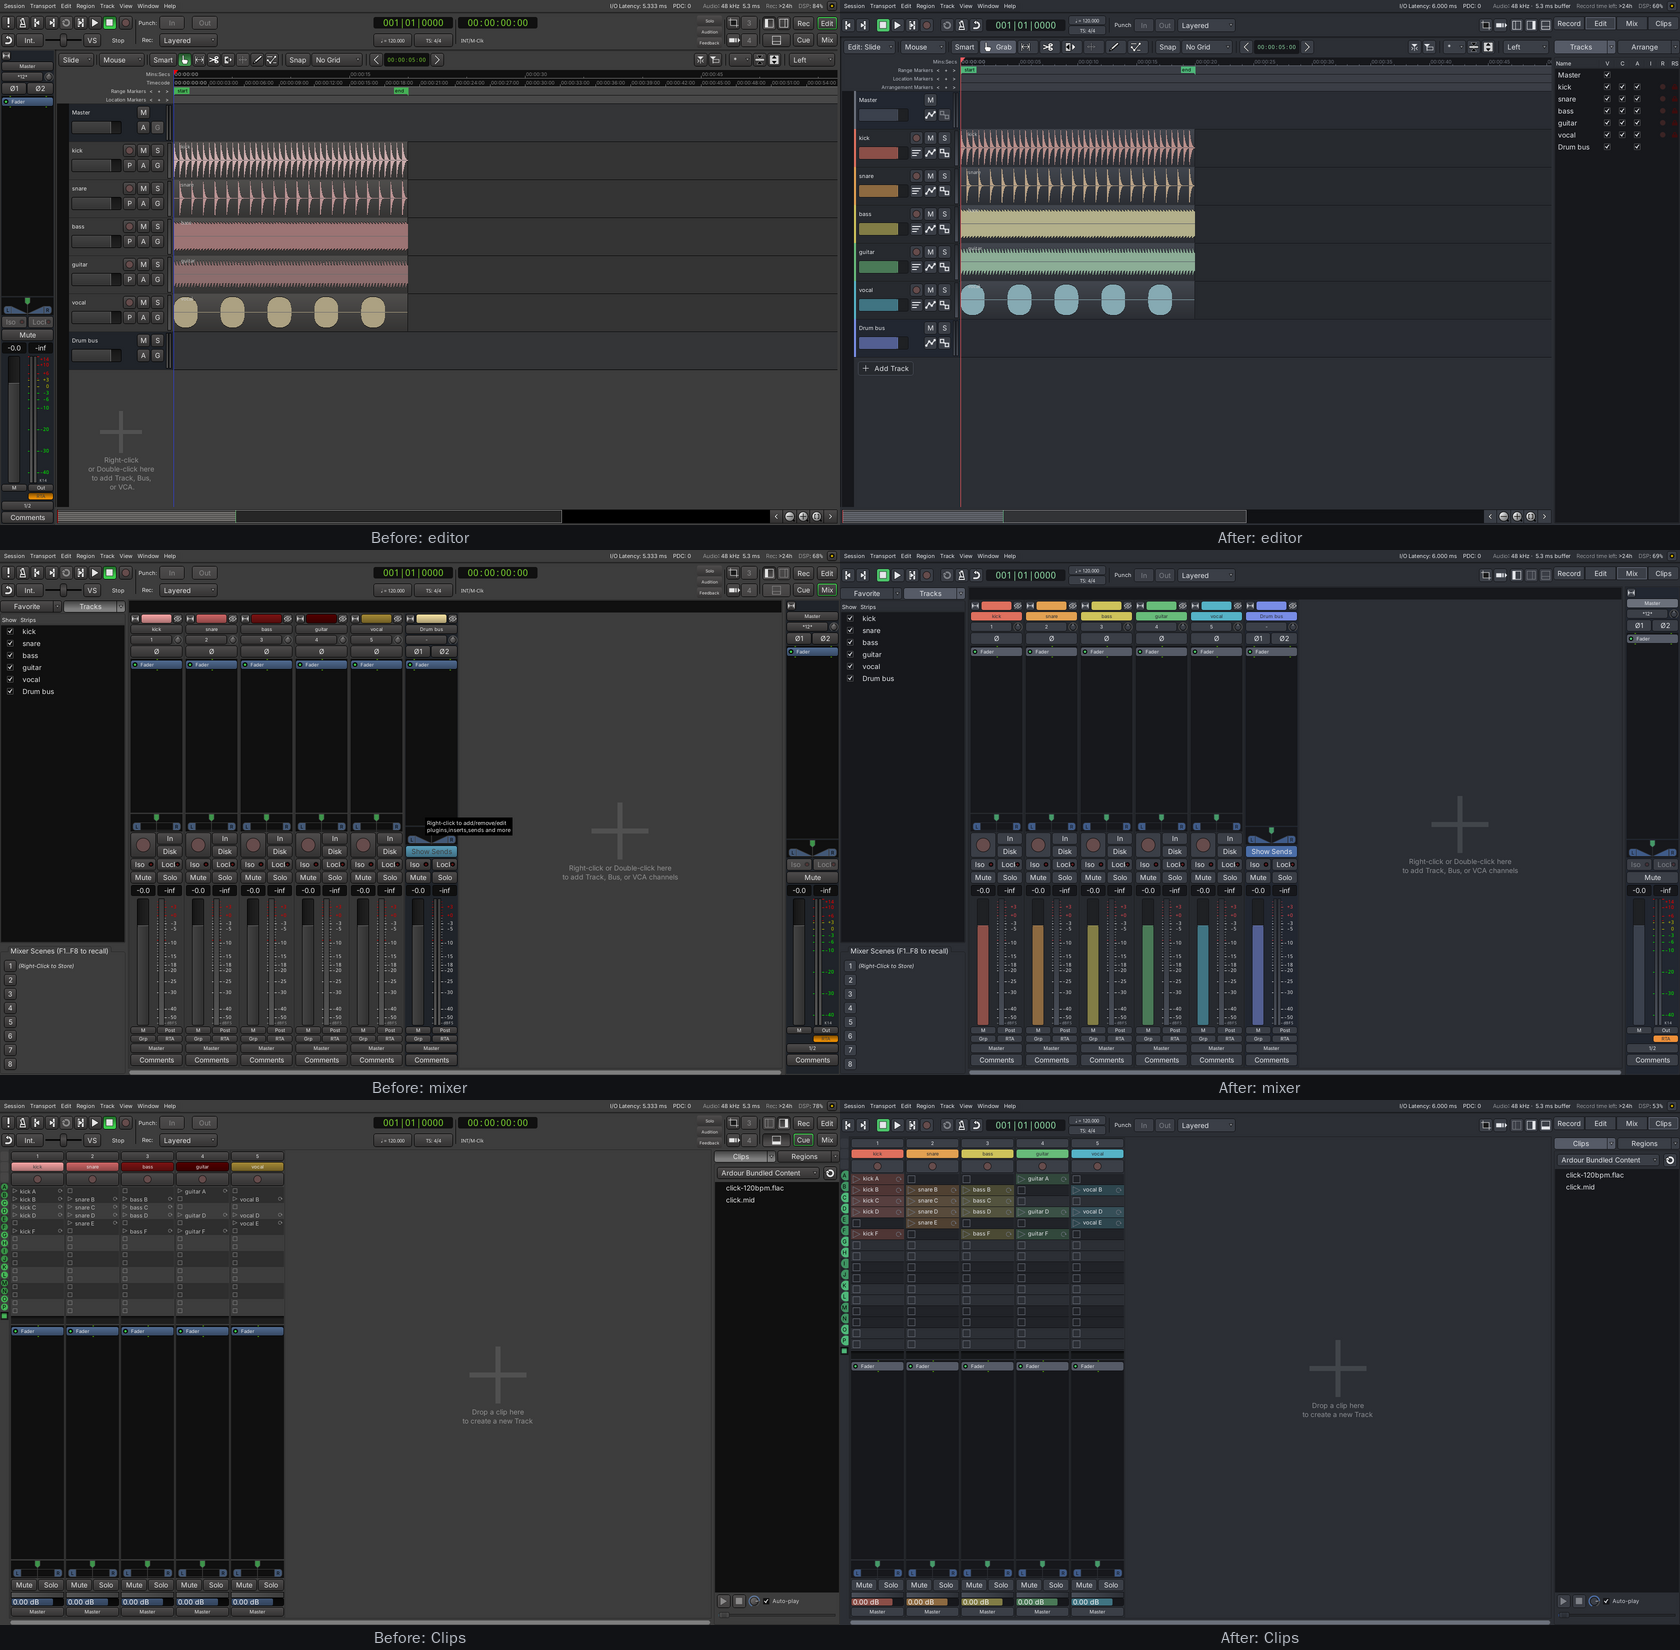
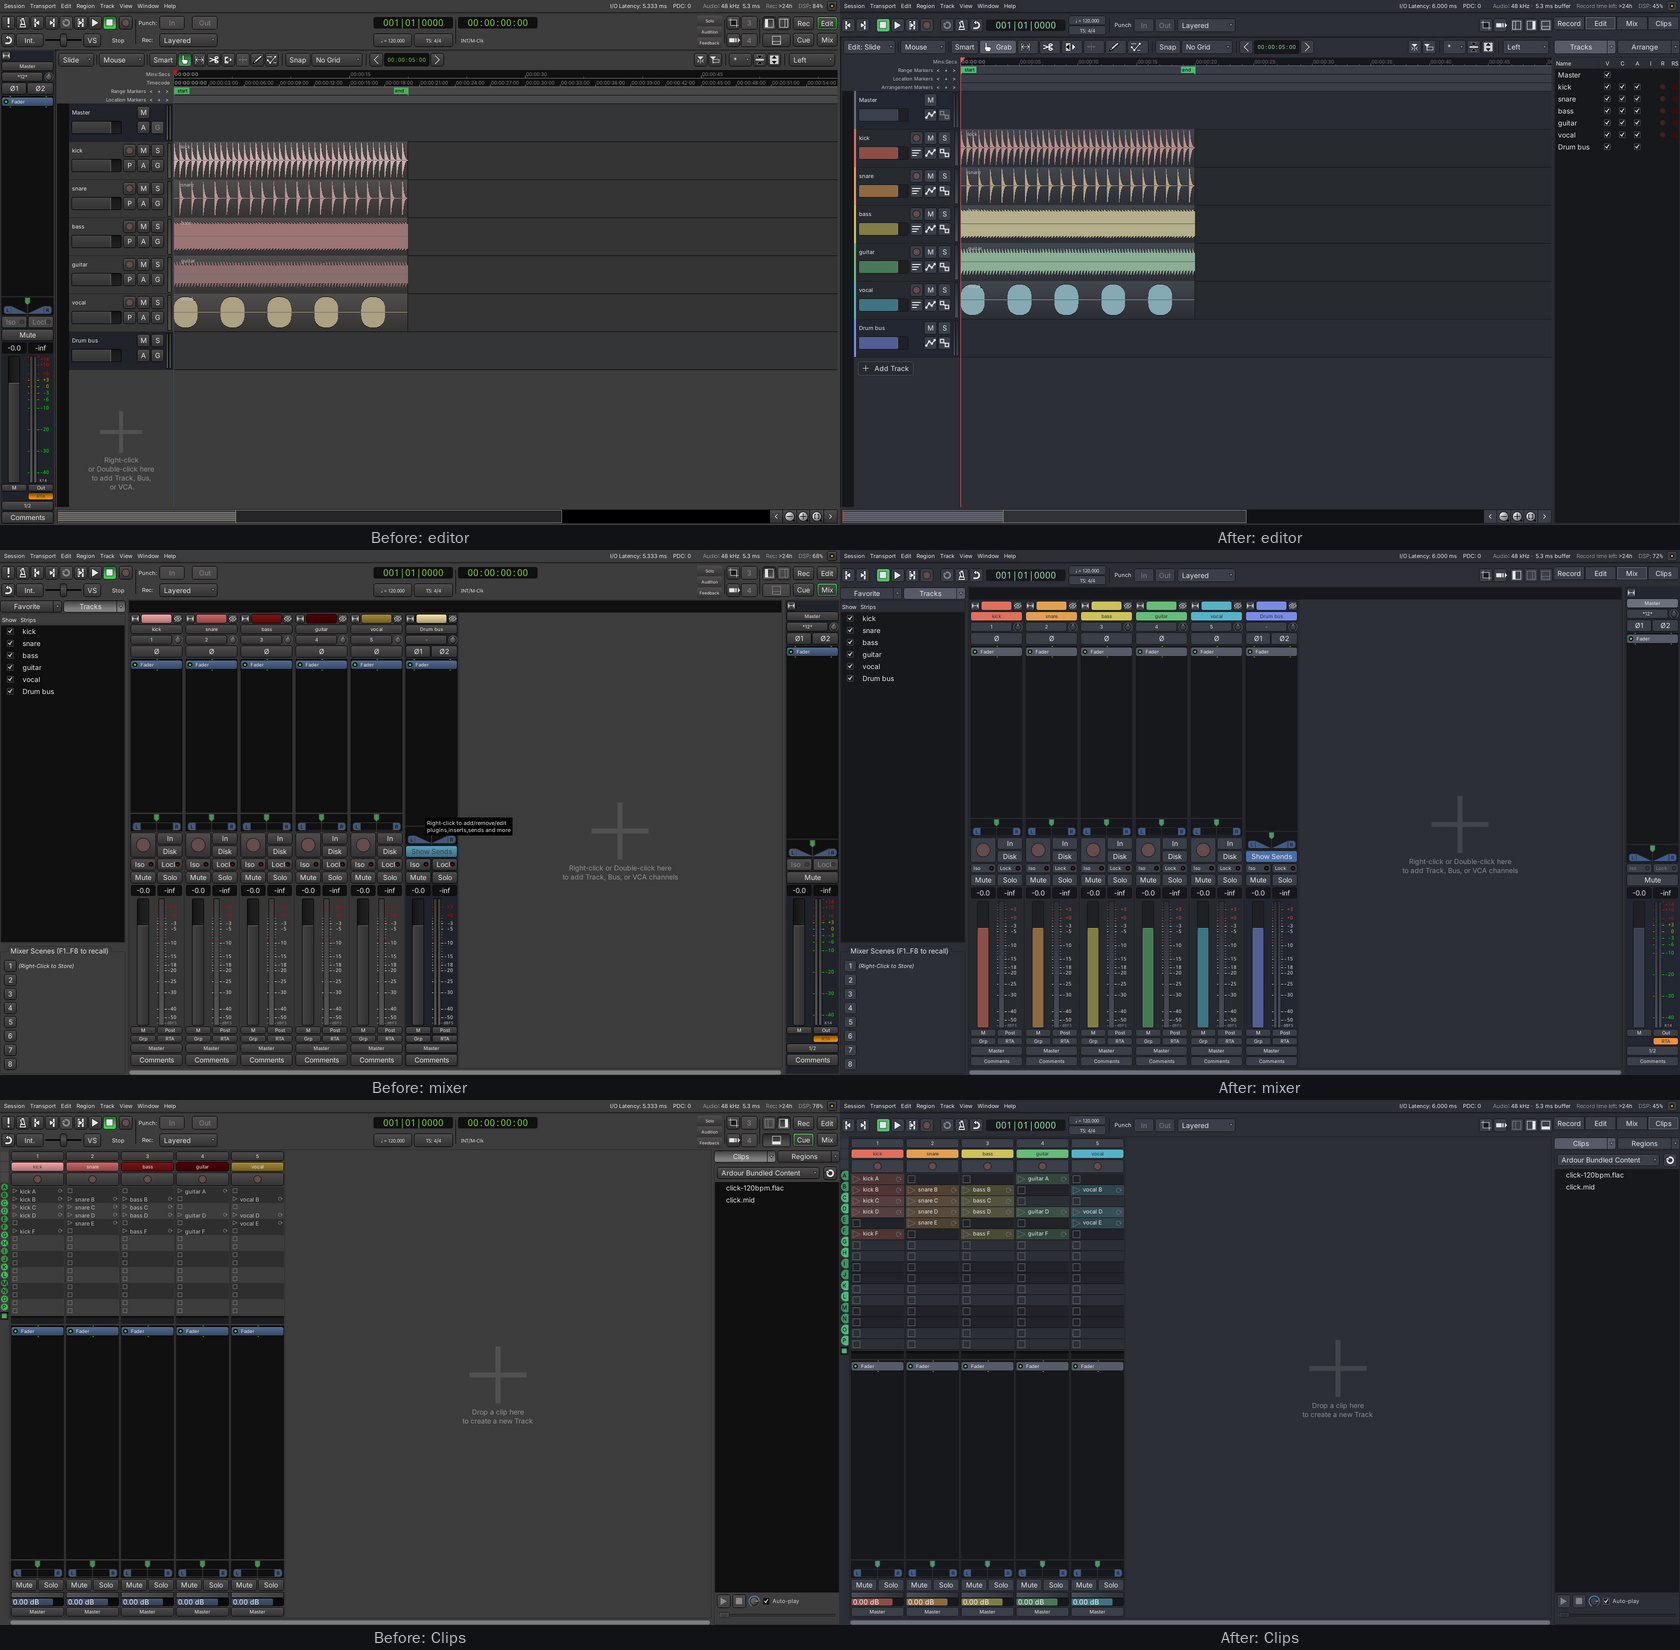
UI polish round 6: verified fixes, QA, screenshots
Follow-up to the previous commit, after building and touring every
changed screen:

- clocks: re-request their size on realize when the real font differs
  from the stand-in used before (the actual cause of the clipped time
  fields in Session Properties and Locations)
- Preferences/Session Properties: drop-down text uses the option label
  font (rc styles don't reach GtkCellView); plugin list likewise
- selected regions: blend the usual background towards the selection
  color and keep the waveform's track tint
- Recorder lanes muted towards the background like the editor swatches
- primary dialog button keeps the normal label size

run_static.sh and run_gui.sh pass. Adds
ui-drafts/screenshots/menus-dialogs-before-after.png, refreshes the
after shots, README status table and HANDOFF.

Claude-Session: https://claude.ai/code/session_011WmDvaXrAaymPk3GixsUNR

Changed region(s): [[0.5571, 0.4945, 0.7738, 0.5564], [0.9595, 0.4945, 1.0, 0.6491], [0.5571, 0.6182, 0.7738, 0.6491]]

diff --git a/gtk2_ardour/audio_region_view.cc b/gtk2_ardour/audio_region_view.cc
@@ -386,18 +386,18 @@ AudioRegionView::get_fill_color () const
 	Gtkmm2ext::Color c;
 	const bool opaque = _region->opaque() || trackview.layer_display () == Stacked;
 
-	if (_selected) {
-		c = UIConfiguration::instance().color ("selected region base");
-		if (UIConfiguration::instance().get_color_regions_using_track_color()) {
-			/* keep the track color recognizable, tinted towards the selection */
-			c = UINT_INTERPOLATE (fill_color, c, 0.55);
-		}
-	} else if (_recregion) {
+	if (_recregion && !_selected) {
 		return UIConfiguration::instance().color ("recording rect");
 	} else if (!UIConfiguration::instance().get_color_regions_using_track_color()) {
 		c = UIConfiguration::instance().color (fill_color_name);
 	} else {
 		c = fill_color;
+	}
+
+	if (_selected) {
+		/* tint the usual background towards the selection color rather than
+		 * replacing it, so the region keeps its identity */
+		c = UINT_INTERPOLATE (c, UIConfiguration::instance().color ("selected region base"), 0.6);
 	}
 
 	if (opaque && ( !_dragging && !_region->muted () )) {
@@ -1716,11 +1716,8 @@ AudioRegionView::set_some_waveform_colors (vector<ArdourWaveView::WaveView*>& wa
 		fill = UINT_RGBA_CHANGE_A(fill, 0xC0);
 	} else if (_selected) {
 		outline = UINT_RGBA_CHANGE_A(UIConfiguration::instance().color ("selected waveform outline"), 0xC0);
-		if (UIConfiguration::instance().get_color_regions_using_track_color()) {
-			fill = UINT_RGBA_CHANGE_A(UINT_INTERPOLATE (fill, UIConfiguration::instance().color ("selected waveform fill"), 0.6), 0xC0);
-		} else {
-			fill = UINT_RGBA_CHANGE_A(UIConfiguration::instance().color ("selected waveform fill"), 0xC0);
-		}
+		/* keep the track tint, brightened */
+		fill = UINT_RGBA_CHANGE_A(UINT_INTERPOLATE (fill, UIConfiguration::instance().color ("selected waveform fill"), 0.35), 0xC0);
 	} else if (_region->muted()) {
 		outline = UINT_RGBA_CHANGE_A(outline, 0x40);
 		fill = UINT_RGBA_CHANGE_A (UINT_INTERPOLATE(fill_color, UIConfiguration::instance().color ("covered region"), 0.7), 0x40);

diff --git a/gtk2_ardour/option_editor.cc b/gtk2_ardour/option_editor.cc
@@ -1119,6 +1119,32 @@ OptionEditor::add_path_to_treeview (std::string const & pn, Gtk::Widget& widget)
 	option_treeview.expand_all ();
 }
 
+/* GTK draws the text of drop-downs with the toolkit's default font, not the
+ * style of the page; use the same font as the option labels next to them */
+static void
+match_combo_fonts (Gtk::Widget& w)
+{
+	Gtk::ComboBox* combo = dynamic_cast<Gtk::ComboBox*> (&w);
+	if (combo) {
+		static Pango::FontDescription const fd = ARDOUR_UI_UTILS::get_font_for_style (X_("OptionsLabel"));
+		std::vector<Gtk::CellRenderer*> cells = combo->get_cells ();
+		for (auto const& c : cells) {
+			Gtk::CellRendererText* t = dynamic_cast<Gtk::CellRendererText*> (c);
+			if (t) {
+				t->property_font_desc () = fd;
+			}
+		}
+	}
+
+	Gtk::Container* container = dynamic_cast<Gtk::Container*> (&w);
+	if (container) {
+		std::vector<Gtk::Widget*> children = container->get_children ();
+		for (auto const& c : children) {
+			match_combo_fonts (*c);
+		}
+	}
+}
+
 /** Add a component to a given page.
  *  @param page_name Page name (will be created if it doesn't already exist)
  *  @param o Component.
@@ -1138,6 +1164,8 @@ OptionEditor::add_option (std::string const & page_name, OptionEditorComponent* 
 
 	o->add_to_page (p);
 	o->set_state_from_config ();
+
+	match_combo_fonts (p->table);
 }
 
 /** Add a new page

diff --git a/gtk2_ardour/midi_region_view.cc b/gtk2_ardour/midi_region_view.cc
@@ -559,16 +559,15 @@ MidiRegionView::get_fill_color() const
 	Gtkmm2ext::Color c;
 	Editing::MouseMode mm = trackview.editor().effective_mouse_mode ();
 
-	if (_selected && (mm != Editing::MouseDraw && mm != Editing::MouseContent)) {
-		c = UIConfiguration::instance().color ("selected region base");
-		if (UIConfiguration::instance().get_color_regions_using_track_color()) {
-			/* keep the track color recognizable, tinted towards the selection */
-			c = UINT_INTERPOLATE (fill_color, c, 0.55);
-		}
-	} else if ((!UIConfiguration::instance().get_show_name_highlight() || high_enough_for_name) && !UIConfiguration::instance().get_color_regions_using_track_color()) {
+	if ((!UIConfiguration::instance().get_show_name_highlight() || high_enough_for_name) && !UIConfiguration::instance().get_color_regions_using_track_color()) {
 		c = UIConfiguration::instance().color (fill_color_name);
 	} else {
 		c = fill_color;
+	}
+
+	if (_selected && (mm != Editing::MouseDraw && mm != Editing::MouseContent)) {
+		/* tint towards the selection color, keep the region's identity */
+		c = UINT_INTERPOLATE (c, UIConfiguration::instance().color ("selected region base"), 0.6);
 	}
 
 	string mod_name = get_modifier_name();

diff --git a/gtk2_ardour/time_axis_view_item.cc b/gtk2_ardour/time_axis_view_item.cc
@@ -680,11 +680,11 @@ TimeAxisViewItem::get_fill_color () const
 	const std::string mod_name = (_dragging ? "dragging region" : fill_color_name);
 
 	if (_selected) {
-		if (UIConfiguration::instance().get_color_regions_using_track_color()) {
-			/* keep the track color recognizable, tinted towards the selection */
-			return UINT_INTERPOLATE (fill_color, UIConfiguration::instance().color ("selected region base"), 0.55);
-		}
-		return UIConfiguration::instance().color ("selected region base");
+		/* tint towards the selection color, keep the item's identity */
+		Gtkmm2ext::Color const c = UIConfiguration::instance().get_color_regions_using_track_color()
+			? UIConfiguration::instance().color_mod (fill_color, mod_name)
+			: UIConfiguration::instance().color_mod (fill_color_name, mod_name);
+		return UINT_INTERPOLATE (c, UIConfiguration::instance().color ("selected region base"), 0.6);
 	} else if (_recregion) {
 		return UIConfiguration::instance().color ("recording rect");
 	} else if (!UIConfiguration::instance().get_color_regions_using_track_color()) {

diff --git a/gtk2_ardour/plugin_selector.cc b/gtk2_ardour/plugin_selector.cc
@@ -124,6 +124,20 @@ PluginSelector::PluginSelector (PluginManager& mgr)
 	plugin_display.append_column (_("Type"), plugin_columns.type_name);
 	plugin_display.append_column (_("Audio I/O"),plugin_columns.audio_io);
 	plugin_display.append_column (_("MIDI I/O"), plugin_columns.midi_io);
+	{
+		/* the list's cells otherwise use the toolkit's (larger) default font */
+		Pango::FontDescription const fd = ARDOUR_UI_UTILS::get_font_for_style (X_("PluginSelectorDisplay"));
+		std::vector<Gtk::TreeViewColumn*> columns = plugin_display.get_columns ();
+		for (auto const& col : columns) {
+			std::vector<Gtk::CellRenderer*> cells = col->get_cell_renderers ();
+			for (auto const& c : cells) {
+				Gtk::CellRendererText* t = dynamic_cast<Gtk::CellRendererText*> (c);
+				if (t) {
+					t->property_font_desc () = fd;
+				}
+			}
+		}
+	}
 	plugin_display.set_headers_visible (true);
 	plugin_display.set_headers_clickable (true);
 	plugin_display.set_reorderable (false);

diff --git a/gtk2_ardour/track_record_axis.cc b/gtk2_ardour/track_record_axis.cc
@@ -699,8 +699,8 @@ TrackRecordAxis::TrackSummary::render (Cairo::RefPtr<Cairo::Context> const& cr, 
 	if (g && g->is_color()) {
 		Gtkmm2ext::set_source_rgba (cr, GroupTabs::group_color (g));
 	} else {
-		/* the same muted tint as the editor's waveforms */
-		Gtkmm2ext::set_source_rgba (cr, UINT_INTERPOLATE (_track->presentation_info ().color (), UIConfiguration::instance ().color ("waveform fill"), 0.5));
+		/* muted towards the background, like the editor's track color swatches */
+		Gtkmm2ext::set_source_rgba (cr, UINT_INTERPOLATE (_track->presentation_info ().color (), UIConfiguration::instance ().color (X_("gtk_background")), 0.35));
 	}
 
 	double w = get_width();

diff --git a/gtk2_ardour/audio_clock.cc b/gtk2_ardour/audio_clock.cc
@@ -166,8 +166,16 @@ AudioClock::on_realize ()
 
 	set_clock_dimensions (req);
 
+	/* the size requested before realize was measured with the font of an
+	 * unrealized stand-in widget, which can differ from ours: ask again */
+	bool const changed = (req.width != first_width || req.height != first_height);
+
 	first_width = req.width;
 	first_height = req.height;
+
+	if (changed) {
+		queue_resize ();
+	}
 
 	set_colors ();
 }

diff --git a/ui-drafts/HANDOFF.md b/ui-drafts/HANDOFF.md
@@ -109,6 +109,35 @@ QA → screenshot → fix), rounds 1–5. Round 5 builds; `run_static.sh` and `r
 pass (smoke 10/10, picker, colors, clip states, 150 %). Screenshots: `screenshots/after/`,
 `screenshots/before-after.png`, `screenshots/topbar-before-after.png`.
 
+Round 6 (branch `claude/wizardly-brahmagupta-jyh5oi`, not merged yet): fixes from a tour
+of every menu and dialog, sheet in `screenshots/menus-dialogs-before-after.png`.
+`run_static.sh` and `run_gui.sh` pass. Details worth knowing:
+
+- Widget drawing lives in `libs/clearlooks-newer` (a GTK engine, shared by all themes):
+  checkbox/radio borders mix in the text color; menus draw only a check mark (no box);
+  the "etched" copy of insensitive text is skipped on dark backgrounds.
+  `fg[INSENSITIVE]` in `clearlooks.rc.in` is a mix of fg and bg.
+- **Fonts:** rc `font_name` reaches labels and named widgets, but drop-downs
+  (`GtkComboBox` → `GtkCellView`), tree views and unnamed custom widgets end up with
+  the toolkit default "Sans 10" (larger than the UI's Inter 8). A rule like
+  `widget "*OptionsNotebook*"` does *not* fix the combos. What works: set the cell
+  renderers' `font_desc` (see `match_combo_fonts()` in `option_editor.cc`, the plugin list
+  in `plugin_selector.cc`). Setting `gtk-font-name` globally would also work but
+  shrinks many redesigned buttons, so it was not done.
+- `AudioClock` measures its size before realize with a stand-in label's font; it now
+  asks for a relayout in `on_realize()` when the real font gives a different size
+  (that was the clipped "0:00:00:0" in Session Properties / Locations).
+- Dialog buttons: `dialog_buttons.{h,cc}` — `plain_buttons()` (drops stock icons, called
+  from `ArdourDialog::on_show` and `ArdourMessageDialog::run/show`) and `set_primary()`
+  (rc style `primary_dialog_button`, accent fill).
+- View menu: `update_view_menu_pane_items()` in `ardour_ui_ed.cc` hides the pane toggles
+  of pages that are not on screen when the menu opens (actions and shortcuts unchanged).
+- Selected regions: background blended 60 % towards `selected region base`, waveform
+  keeps its track tint (`audio_region_view.cc`, `midi_region_view.cc`,
+  `time_axis_view_item.cc`).
+- Not done: Preferences sidebar is still larger than the page text (reads as navigation);
+  other tree views (editor list, etc.) still use the default font.
+
 Round 5 details worth knowing:
 
 - Top bar = `ApplicationBar` (`application_bar.cc`), one instance per page (editor, mixer,
@@ -172,6 +201,9 @@ with side-by-side images and let the user choose what to close next.
 ## Environment notes (cloud container)
 
 - apt downloads stall; use `tools/ui-qa/install_deps.sh`.
+- If `git describe` names `fork-point` instead of `9.0-…`, the build fails in
+  `set_version`; make the local `fork-point` tag lightweight (`git tag -f fork-point 608f15a4`)
+  so `git describe` (annotated tags only) finds `9.0`.
 - No git tags in the shallow clone; configure needs `git describe` → local annotated tag
   (see `CLAUDE.md`), never pushed.
 - Don't use `pkill -f <pattern>`/`rm` with globs in compound shell commands: `pkill -f`

diff --git a/ui-drafts/README.md b/ui-drafts/README.md
@@ -82,6 +82,7 @@ Scope agreed: colors + layout, with Inter as the UI font.
 | Top bar (draft 09): single row | Done | transport grouped (locate · stop/play/range/record · loop/click/auto return); tempo/meter beside the clock; Punch In/Out + record mode in one row; pane toggles in one row |
 | Top bar: hide cryptic controls | Done | sync "Int.", shuttle, "VS" hidden by default (Preferences › Appearance › Application Bar › "Display Sync Source and Shuttle/Varispeed Controls"); MIDI panic only in the Transport menu; unassigned Lua slots hidden |
 | Top bar: alerts only when active | Done | "Solo active" / "Auditioning" / "Feedback loop" appear only while relevant |
+| Round 6: menus and dialogs (from a tour of every menu and window) | Done | readable disabled items; visible empty checkboxes, plain check marks in menus; clipped time fields fixed; drop-downs in Preferences match their labels; highlighted main dialog action, no stock icons on dialog buttons; "Create" in New Session; plainer labels; View menu lists only the visible pages' pane toggles; common region actions at the top of the region menu; larger Locations window; selected regions keep their track tint; muted Recorder lanes; outline star for non-favorite plugins, Insert works without "Add" — see `screenshots/menus-dialogs-before-after.png` |
 
 ## Screenshots and handoff
 
@@ -91,6 +92,7 @@ Scope agreed: colors + layout, with Inter as the UI font.
   plus `cues-playing` / `cues-queued` clip states).
 - `screenshots/before-after.png` – the three pages side by side.
 - `screenshots/topbar-before-after.png` – the top bar before/after round 5.
+- `screenshots/menus-dialogs-before-after.png` – menus and dialogs before/after round 6.
 
 Rebuild `before-after.png` after refreshing `screenshots/after/`:
 
